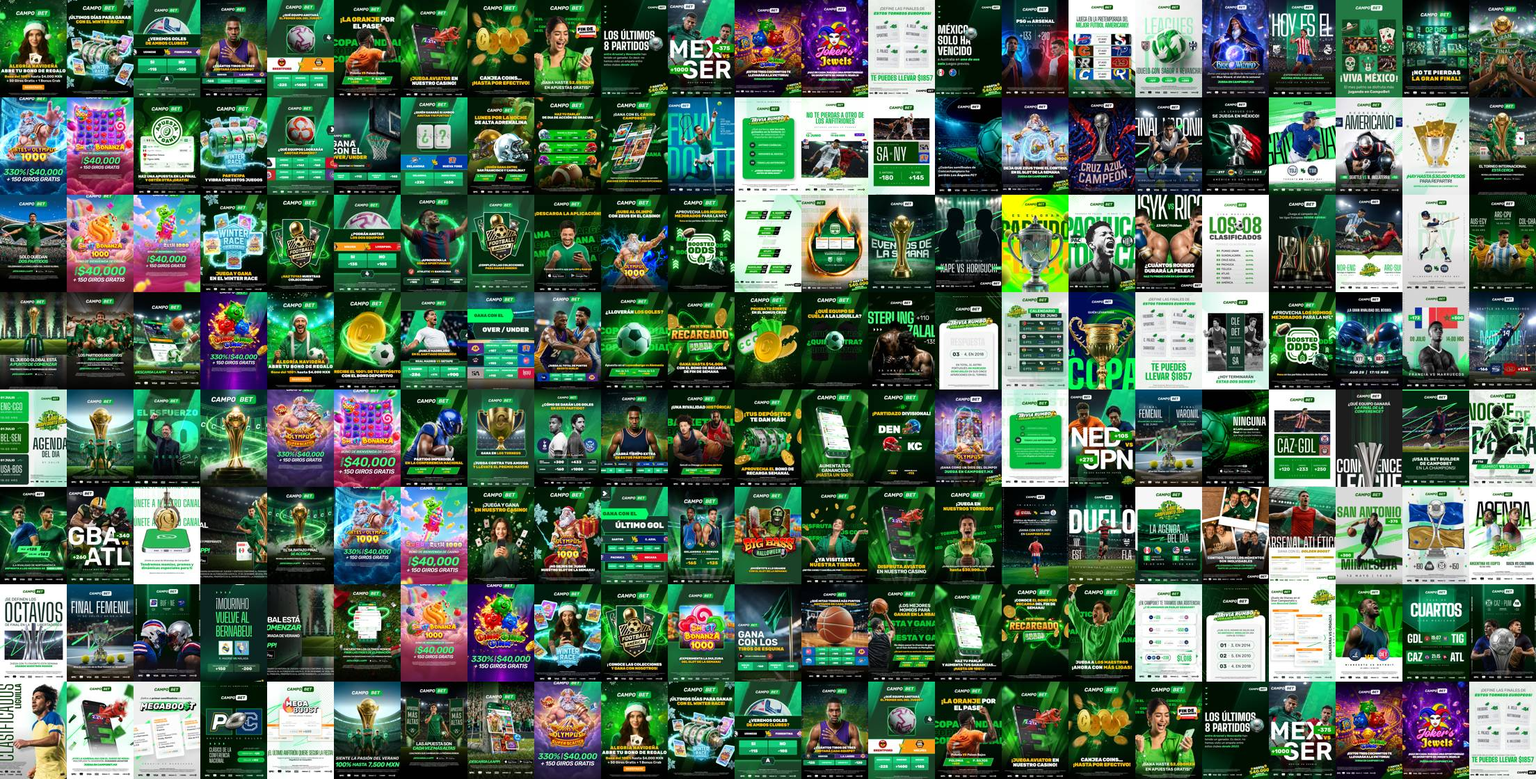
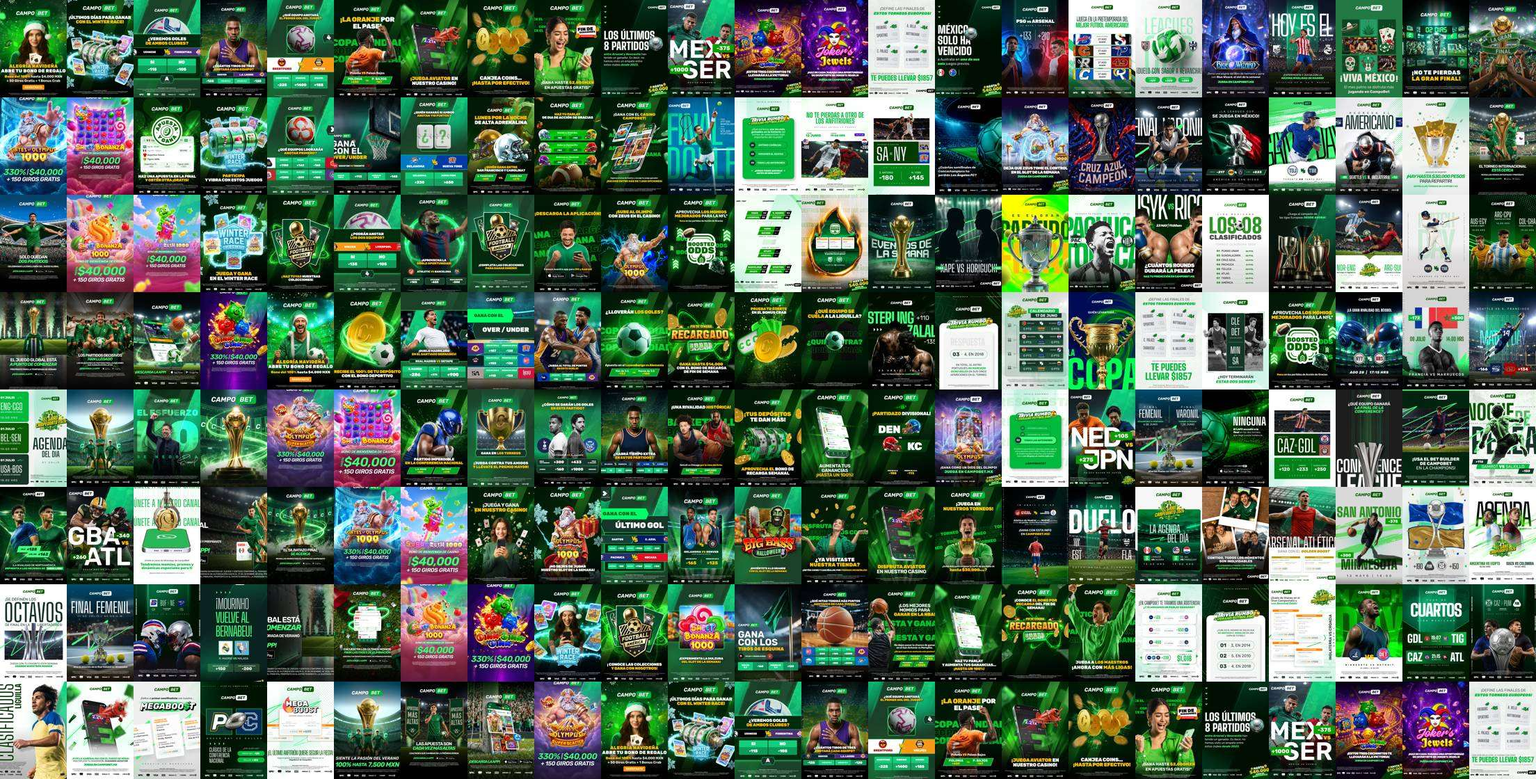
CampoBet hero: background fills in fast, lighter preloaded mosaic
Claude-Session: https://claude.ai/code/session_01EFZpaDedFPSczAptFBx45b

diff --git a/index.html b/index.html
@@ -13,7 +13,7 @@
 <link rel="preconnect" href="https://fonts.googleapis.com">
 <link rel="preconnect" href="https://fonts.gstatic.com" crossorigin>
 <link rel="stylesheet" href="https://fonts.googleapis.com/css2?family=Inter:opsz,wght@14..32,300..800&display=swap">
-<link rel="stylesheet" href="assets/css/main.css?v=023d9aa4">
+<link rel="stylesheet" href="assets/css/main.css?v=c4cee460">
 <style>:root{padding-top:env(safe-area-inset-top);padding-bottom:env(safe-area-inset-bottom)}[hidden]{display:none!important}</style>
 <script type="application/ld+json">{"@context": "https://schema.org", "@graph": [{"@type": "Person", "name": "Rodrigo López", "jobTitle": "Design Team Lead · Designer & Art Director", "description": "Designer and art director from Mexico with 10+ years of experience (since 2016). Brand design, art direction, AI-assisted key visuals, internal campaigns, UX/UI and 3D for global brands. Looking for Brand Designer or Brand Manager roles; open to remote work.", "email": "mailto:rodrigo.lopez.1293@gmail.com", "address": {"@type": "PostalAddress", "addressCountry": "MX"}, "sameAs": ["https://www.linkedin.com/in/rodrigo-lp/", "https://www.instagram.com/rodrigo_1293/"], "worksFor": {"@type": "Organization", "name": "Brainrocket"}, "knowsAbout": ["Brand design", "Brand management", "Art direction", "Key visuals", "AI image generation (Adobe Firefly, Midjourney, Stable Diffusion)", "Internal communications and endomarketing", "UX/UI and landing pages", "3D (Blender, Cinema 4D)", "Design team leadership"], "@id": "#rodrigo"}, {"@type": "ItemList", "name": "Selected work", "itemListElement": [{"@type": "ListItem", "position": 1, "item": {"@type": "CreativeWork", "name": "Happy Talks", "description": "UI design for the landing page of HD*’s conference platform, desktop and mobile, delivered in two weeks. Approved at the first round and still live at happy-talks.com. Illustrator and Photoshop; no AI.", "url": "proyectos/happy-talks.html", "creator": {"@id": "#rodrigo"}, "sourceOrganization": "HD* Human Design Doing (in-house)", "dateCreated": "2024"}}, {"@type": "ListItem", "position": 2, "item": {"@type": "CreativeWork", "name": "No Vendas Humo", "description": "AI-assisted key visual for a sales-culture program: hand-painted reference finished with Adobe Firefly and Photoshop.", "url": "proyectos/no-vendas-humo.html", "creator": {"@id": "#rodrigo"}, "sourceOrganization": "Philip Morris International"}}, {"@type": "ListItem", "position": 3, "item": {"@type": "CreativeWork", "name": "ArboTerra es…", "description": "Campaign concept, four 3D key visuals (Blender + Photoshop) and a 35-page AdBook. Approved at first presentation; the client's in-house team still uses the system three years later. Execution after the concept was done by the client.", "url": "proyectos/arboterra.html", "creator": {"@id": "#rodrigo"}, "sourceOrganization": "ArboTerra (via Happy Studio)", "dateCreated": "2023"}}, {"@type": "ListItem", "position": 4, "item": {"@type": "CreativeWork", "name": "Conexiones Mágicas", "description": "Visual concept and AI-assisted key visual (Adobe Firefly + Photoshop) for a team-building proposal for a 75-person warehouse team. Real bottle-cap photo rebuilt by hand in 12 layers.", "url": "proyectos/conexiones-magicas.html", "creator": {"@id": "#rodrigo"}, "sourceOrganization": "Coca-Cola México (via HD* Human Design Doing)"}}, {"@type": "ListItem", "position": 5, "item": {"@type": "CreativeWork", "name": "CampoBet", "description": "Brand and production design for an online betting brand: a rebrand of the organic content (approved), an icon system, seasonal promo logos, a World Cup set, social, paid, CRM, ASO and blog pieces (more than 150 pieces a month, 184 in the busiest; copy by the content manager), and three AI production pipelines (slot visual masters, resizes, CRM banners) designed by Rodrigo as Claude skills driving Higgsfield and Figma.", "url": "proyectos/campobet.html", "creator": {"@id": "#rodrigo"}, "sourceOrganization": "CampoBet"}}]}, {"@type": "ItemList", "name": "Experience", "itemListElement": [{"@type": "ListItem", "position": 1, "item": {"@type": "OrganizationRole", "roleName": "Design Team Lead", "startDate": "2025", "endDate": "", "description": "Leads the design team for international iGaming brands in Mexico and Canada, working with Marketing, CRM, ASO and Performance.", "memberOf": {"@type": "Organization", "name": "Brainrocket"}}}, {"@type": "ListItem", "position": 2, "item": {"@type": "OrganizationRole", "roleName": "Senior Designer", "startDate": "2023", "endDate": "2025", "description": "Endomarketing and culture campaigns for Philip Morris, Coca-Cola, Nestlé and more.", "memberOf": {"@type": "Organization", "name": "HD* Human Design Doing"}}}, {"@type": "ListItem", "position": 3, "item": {"@type": "OrganizationRole", "roleName": "Senior Designer", "startDate": "2020", "endDate": "2023", "description": "Concepts, 3D models and 2D animation for brand campaigns.", "memberOf": {"@type": "Organization", "name": "Happy Studio"}}}, {"@type": "ListItem", "position": 4, "item": {"@type": "OrganizationRole", "roleName": "Jr. Art Director", "startDate": "2018", "endDate": "2020", "description": "Creative concepts and art direction.", "memberOf": {"@type": "Organization", "name": "Volátil Agencia Creativa"}}}, {"@type": "ListItem", "position": 5, "item": {"@type": "OrganizationRole", "roleName": "Designer", "startDate": "2016", "endDate": "2018", "description": "Print and digital design, architectural photography and web layouts.", "memberOf": {"@type": "Organization", "name": "In Movisión"}}}]}]}</script>
 <link rel="alternate" type="text/markdown" href="llms.txt" title="Plain-text summary">
@@ -214,6 +214,6 @@
 <script src="https://cdnjs.cloudflare.com/ajax/libs/gsap/3.12.5/gsap.min.js"></script>
 <script src="https://cdnjs.cloudflare.com/ajax/libs/gsap/3.12.5/ScrollTrigger.min.js"></script>
 <script src="https://cdn.jsdelivr.net/npm/lenis@1.1.13/dist/lenis.min.js"></script>
-<script src="assets/js/main.js?v=023d9aa4"></script>
+<script src="assets/js/main.js?v=c4cee460"></script>
 </body>
 </html>

diff --git a/proyectos/campobet.html b/proyectos/campobet.html
@@ -13,8 +13,9 @@
 <link rel="preconnect" href="https://fonts.googleapis.com">
 <link rel="preconnect" href="https://fonts.gstatic.com" crossorigin>
 <link rel="stylesheet" href="https://fonts.googleapis.com/css2?family=Inter:opsz,wght@14..32,300..800&display=swap">
-<link rel="stylesheet" href="../assets/css/main.css?v=023d9aa4">
+<link rel="stylesheet" href="../assets/css/main.css?v=c4cee460">
 <style>:root{padding-top:env(safe-area-inset-top);padding-bottom:env(safe-area-inset-bottom)}[hidden]{display:none!important}</style>
+<link rel="preload" as="image" href="../assets/img/campobet/mosaic-d.jpg" media="(min-width:641px)"><link rel="preload" as="image" href="../assets/img/campobet/mosaic-m.jpg" media="(max-width:640px)">
 <script type="application/ld+json">{"@context": "https://schema.org", "@type": "CreativeWork", "name": "CampoBet", "description": "Brand and production design for an online betting brand: a rebrand of the organic content (approved), an icon system, seasonal promo logos, a World Cup set, social, paid, CRM, ASO and blog pieces (more than 150 pieces a month, 184 in the busiest; copy by the content manager), and three AI production pipelines (slot visual masters, resizes, CRM banners) designed by Rodrigo as Claude skills driving Higgsfield and Figma.", "sourceOrganization": "CampoBet", "creator": {"@type": "Person", "name": "Rodrigo López", "jobTitle": "Design Team Lead · Designer & Art Director", "description": "Designer and art director from Mexico with 10+ years of experience (since 2016). Brand design, art direction, AI-assisted key visuals, internal campaigns, UX/UI and 3D for global brands. Looking for Brand Designer or Brand Manager roles; open to remote work.", "email": "mailto:rodrigo.lopez.1293@gmail.com", "address": {"@type": "PostalAddress", "addressCountry": "MX"}, "sameAs": ["https://www.linkedin.com/in/rodrigo-lp/", "https://www.instagram.com/rodrigo_1293/"], "knowsAbout": ["Brand design", "Brand management", "Art direction", "Key visuals", "AI image generation (Adobe Firefly, Midjourney, Stable Diffusion)", "Internal communications and endomarketing", "UX/UI and landing pages", "3D (Blender, Cinema 4D)", "Design team leadership"]}}</script>
 <link rel="alternate" type="text/markdown" href="../llms.txt" title="Plain-text summary">
 </head>
@@ -227,6 +228,6 @@
 <script src="https://cdnjs.cloudflare.com/ajax/libs/gsap/3.12.5/gsap.min.js"></script>
 <script src="https://cdnjs.cloudflare.com/ajax/libs/gsap/3.12.5/ScrollTrigger.min.js"></script>
 <script src="https://cdn.jsdelivr.net/npm/lenis@1.1.13/dist/lenis.min.js"></script>
-<script src="../assets/js/main.js?v=023d9aa4"></script>
+<script src="../assets/js/main.js?v=c4cee460"></script>
 </body>
 </html>

diff --git a/proyectos/arboterra.html b/proyectos/arboterra.html
@@ -13,7 +13,7 @@
 <link rel="preconnect" href="https://fonts.googleapis.com">
 <link rel="preconnect" href="https://fonts.gstatic.com" crossorigin>
 <link rel="stylesheet" href="https://fonts.googleapis.com/css2?family=Inter:opsz,wght@14..32,300..800&display=swap">
-<link rel="stylesheet" href="../assets/css/main.css?v=023d9aa4">
+<link rel="stylesheet" href="../assets/css/main.css?v=c4cee460">
 <style>:root{padding-top:env(safe-area-inset-top);padding-bottom:env(safe-area-inset-bottom)}[hidden]{display:none!important}</style>
 <script type="application/ld+json">{"@context": "https://schema.org", "@type": "CreativeWork", "name": "ArboTerra es…", "description": "Campaign concept, four 3D key visuals (Blender + Photoshop) and a 35-page AdBook. Approved at first presentation; the client's in-house team still uses the system three years later. Execution after the concept was done by the client.", "sourceOrganization": "ArboTerra (via Happy Studio)", "dateCreated": "2023", "creator": {"@type": "Person", "name": "Rodrigo López", "jobTitle": "Design Team Lead · Designer & Art Director", "description": "Designer and art director from Mexico with 10+ years of experience (since 2016). Brand design, art direction, AI-assisted key visuals, internal campaigns, UX/UI and 3D for global brands. Looking for Brand Designer or Brand Manager roles; open to remote work.", "email": "mailto:rodrigo.lopez.1293@gmail.com", "address": {"@type": "PostalAddress", "addressCountry": "MX"}, "sameAs": ["https://www.linkedin.com/in/rodrigo-lp/", "https://www.instagram.com/rodrigo_1293/"], "worksFor": {"@type": "Organization", "name": "Brainrocket"}, "knowsAbout": ["Brand design", "Brand management", "Art direction", "Key visuals", "AI image generation (Adobe Firefly, Midjourney, Stable Diffusion)", "Internal communications and endomarketing", "UX/UI and landing pages", "3D (Blender, Cinema 4D)", "Design team leadership"]}}</script>
 <link rel="alternate" type="text/markdown" href="../llms.txt" title="Plain-text summary">
@@ -154,6 +154,6 @@
 <script src="https://cdnjs.cloudflare.com/ajax/libs/gsap/3.12.5/gsap.min.js"></script>
 <script src="https://cdnjs.cloudflare.com/ajax/libs/gsap/3.12.5/ScrollTrigger.min.js"></script>
 <script src="https://cdn.jsdelivr.net/npm/lenis@1.1.13/dist/lenis.min.js"></script>
-<script src="../assets/js/main.js?v=023d9aa4"></script>
+<script src="../assets/js/main.js?v=c4cee460"></script>
 </body>
 </html>

diff --git a/proyectos/happy-talks.html b/proyectos/happy-talks.html
@@ -13,7 +13,7 @@
 <link rel="preconnect" href="https://fonts.googleapis.com">
 <link rel="preconnect" href="https://fonts.gstatic.com" crossorigin>
 <link rel="stylesheet" href="https://fonts.googleapis.com/css2?family=Inter:opsz,wght@14..32,300..800&display=swap">
-<link rel="stylesheet" href="../assets/css/main.css?v=023d9aa4">
+<link rel="stylesheet" href="../assets/css/main.css?v=c4cee460">
 <style>:root{padding-top:env(safe-area-inset-top);padding-bottom:env(safe-area-inset-bottom)}[hidden]{display:none!important}</style>
 <script type="application/ld+json">{"@context": "https://schema.org", "@type": "CreativeWork", "name": "Happy Talks", "description": "UI design for the landing page of HD*’s conference platform, desktop and mobile, delivered in two weeks. Approved at the first round and still live at happy-talks.com. Illustrator and Photoshop; no AI.", "sourceOrganization": "HD* Human Design Doing (in-house)", "dateCreated": "2024", "creator": {"@type": "Person", "name": "Rodrigo López", "jobTitle": "Design Team Lead · Designer & Art Director", "description": "Designer and art director from Mexico with 10+ years of experience (since 2016). Brand design, art direction, AI-assisted key visuals, internal campaigns, UX/UI and 3D for global brands. Looking for Brand Designer or Brand Manager roles; open to remote work.", "email": "mailto:rodrigo.lopez.1293@gmail.com", "address": {"@type": "PostalAddress", "addressCountry": "MX"}, "sameAs": ["https://www.linkedin.com/in/rodrigo-lp/", "https://www.instagram.com/rodrigo_1293/"], "worksFor": {"@type": "Organization", "name": "Brainrocket"}, "knowsAbout": ["Brand design", "Brand management", "Art direction", "Key visuals", "AI image generation (Adobe Firefly, Midjourney, Stable Diffusion)", "Internal communications and endomarketing", "UX/UI and landing pages", "3D (Blender, Cinema 4D)", "Design team leadership"]}}</script>
 <link rel="alternate" type="text/markdown" href="../llms.txt" title="Plain-text summary">
@@ -131,6 +131,6 @@
 <script src="https://cdnjs.cloudflare.com/ajax/libs/gsap/3.12.5/gsap.min.js"></script>
 <script src="https://cdnjs.cloudflare.com/ajax/libs/gsap/3.12.5/ScrollTrigger.min.js"></script>
 <script src="https://cdn.jsdelivr.net/npm/lenis@1.1.13/dist/lenis.min.js"></script>
-<script src="../assets/js/main.js?v=023d9aa4"></script>
+<script src="../assets/js/main.js?v=c4cee460"></script>
 </body>
 </html>

diff --git a/proyectos/conexiones-magicas.html b/proyectos/conexiones-magicas.html
@@ -13,7 +13,7 @@
 <link rel="preconnect" href="https://fonts.googleapis.com">
 <link rel="preconnect" href="https://fonts.gstatic.com" crossorigin>
 <link rel="stylesheet" href="https://fonts.googleapis.com/css2?family=Inter:opsz,wght@14..32,300..800&display=swap">
-<link rel="stylesheet" href="../assets/css/main.css?v=023d9aa4">
+<link rel="stylesheet" href="../assets/css/main.css?v=c4cee460">
 <style>:root{padding-top:env(safe-area-inset-top);padding-bottom:env(safe-area-inset-bottom)}[hidden]{display:none!important}</style>
 <script type="application/ld+json">{"@context": "https://schema.org", "@type": "CreativeWork", "name": "Conexiones Mágicas", "description": "Visual concept and AI-assisted key visual (Adobe Firefly + Photoshop) for a team-building proposal for a 75-person warehouse team. Real bottle-cap photo rebuilt by hand in 12 layers.", "sourceOrganization": "Coca-Cola México (via HD* Human Design Doing)", "creator": {"@type": "Person", "name": "Rodrigo López", "jobTitle": "Design Team Lead · Designer & Art Director", "description": "Designer and art director from Mexico with 10+ years of experience (since 2016). Brand design, art direction, AI-assisted key visuals, internal campaigns, UX/UI and 3D for global brands. Looking for Brand Designer or Brand Manager roles; open to remote work.", "email": "mailto:rodrigo.lopez.1293@gmail.com", "address": {"@type": "PostalAddress", "addressCountry": "MX"}, "sameAs": ["https://www.linkedin.com/in/rodrigo-lp/", "https://www.instagram.com/rodrigo_1293/"], "worksFor": {"@type": "Organization", "name": "Brainrocket"}, "knowsAbout": ["Brand design", "Brand management", "Art direction", "Key visuals", "AI image generation (Adobe Firefly, Midjourney, Stable Diffusion)", "Internal communications and endomarketing", "UX/UI and landing pages", "3D (Blender, Cinema 4D)", "Design team leadership"]}}</script>
 <link rel="alternate" type="text/markdown" href="../llms.txt" title="Plain-text summary">
@@ -105,6 +105,6 @@
 <script src="https://cdnjs.cloudflare.com/ajax/libs/gsap/3.12.5/gsap.min.js"></script>
 <script src="https://cdnjs.cloudflare.com/ajax/libs/gsap/3.12.5/ScrollTrigger.min.js"></script>
 <script src="https://cdn.jsdelivr.net/npm/lenis@1.1.13/dist/lenis.min.js"></script>
-<script src="../assets/js/main.js?v=023d9aa4"></script>
+<script src="../assets/js/main.js?v=c4cee460"></script>
 </body>
 </html>

diff --git a/proyectos/no-vendas-humo.html b/proyectos/no-vendas-humo.html
@@ -13,7 +13,7 @@
 <link rel="preconnect" href="https://fonts.googleapis.com">
 <link rel="preconnect" href="https://fonts.gstatic.com" crossorigin>
 <link rel="stylesheet" href="https://fonts.googleapis.com/css2?family=Inter:opsz,wght@14..32,300..800&display=swap">
-<link rel="stylesheet" href="../assets/css/main.css?v=023d9aa4">
+<link rel="stylesheet" href="../assets/css/main.css?v=c4cee460">
 <style>:root{padding-top:env(safe-area-inset-top);padding-bottom:env(safe-area-inset-bottom)}[hidden]{display:none!important}</style>
 <script type="application/ld+json">{"@context": "https://schema.org", "@type": "CreativeWork", "name": "No Vendas Humo", "description": "AI-assisted key visual for a sales-culture program: hand-painted reference finished with Adobe Firefly and Photoshop.", "sourceOrganization": "Philip Morris International", "creator": {"@type": "Person", "name": "Rodrigo López", "jobTitle": "Design Team Lead · Designer & Art Director", "description": "Designer and art director from Mexico with 10+ years of experience (since 2016). Brand design, art direction, AI-assisted key visuals, internal campaigns, UX/UI and 3D for global brands. Looking for Brand Designer or Brand Manager roles; open to remote work.", "email": "mailto:rodrigo.lopez.1293@gmail.com", "address": {"@type": "PostalAddress", "addressCountry": "MX"}, "sameAs": ["https://www.linkedin.com/in/rodrigo-lp/", "https://www.instagram.com/rodrigo_1293/"], "worksFor": {"@type": "Organization", "name": "Brainrocket"}, "knowsAbout": ["Brand design", "Brand management", "Art direction", "Key visuals", "AI image generation (Adobe Firefly, Midjourney, Stable Diffusion)", "Internal communications and endomarketing", "UX/UI and landing pages", "3D (Blender, Cinema 4D)", "Design team leadership"]}}</script>
 <link rel="alternate" type="text/markdown" href="../llms.txt" title="Plain-text summary">
@@ -109,6 +109,6 @@
 <script src="https://cdnjs.cloudflare.com/ajax/libs/gsap/3.12.5/gsap.min.js"></script>
 <script src="https://cdnjs.cloudflare.com/ajax/libs/gsap/3.12.5/ScrollTrigger.min.js"></script>
 <script src="https://cdn.jsdelivr.net/npm/lenis@1.1.13/dist/lenis.min.js"></script>
-<script src="../assets/js/main.js?v=023d9aa4"></script>
+<script src="../assets/js/main.js?v=c4cee460"></script>
 </body>
 </html>

diff --git a/assets/js/main.js b/assets/js/main.js
@@ -533,11 +533,11 @@
   var hh=$('.h184');
   if(hh){
     var cells=$$('.h-grid i',hh),hn=$('.h-n',hh),N=cells.length,NN=+hn.dataset.n||N;cells.forEach(function(c){c.style.setProperty('--d',(Math.random()*9).toFixed(2))});
-    setTimeout(function(){hh.classList.add('in')},reduce?0:120);if(reduce){cells.forEach(function(c){c.classList.add('on')});hh.classList.add('in')}
+    if(reduce){cells.forEach(function(c){c.classList.add('on')});hh.classList.add('in')}
     else{hn.textContent='0';var t0=null;
-      (function f(n){if(!t0)t0=n;var k=Math.min(1,(n-t0)/1700),e=1-Math.pow(1-k,2),m=Math.round(N*e);
+      (function f(n){if(!t0)t0=n;var k=Math.min(1,(n-t0)/550),e=1-Math.pow(1-k,2),m=Math.round(N*e);
         for(var q=0;q<m;q++)cells[q].classList.add('on');hn.textContent='+'+Math.round(NN*e);
-        if(k<1)requestAnimationFrame(f);else hh.classList.add('in')})(performance.now()+250)}
+        if(k<1)requestAnimationFrame(f);else hh.classList.add('in')})(performance.now())}
   }
 
   /* ---------- Rebrand: lenticular, driven by one slider ---------- */

diff --git a/assets/css/main.css b/assets/css/main.css
@@ -1406,4 +1406,3 @@ body *:not(.keep-case){text-transform:none!important}
 .car-t::-webkit-scrollbar{display:none}
 .car-t img{scroll-snap-align:start}
 .car-p.off,.car-n.off{opacity:0;pointer-events:none}
-.hf{transition:translate .6s var(--bounce),opacity .35s;transition-delay:calc(var(--i) * 45ms)}

diff --git a/tools/build.py b/tools/build.py
@@ -922,6 +922,7 @@ case5=head('CampoBet · Rodrigo López','Case study: brand and production design
   </div>
 '''+next_block(pre,'Happy Talks','happy-talks.html',htimg(1,pre))+'''</main>
 '''+scripts(pre)
+case5=case5.replace('</head>','<link rel="preload" as="image" href="../assets/img/campobet/mosaic-d.jpg" media="(min-width:641px)"><link rel="preload" as="image" href="../assets/img/campobet/mosaic-m.jpg" media="(max-width:640px)">\n</head>',1)
 open(os.path.join(R,'proyectos','campobet.html'),'w').write(case5)
 
 
